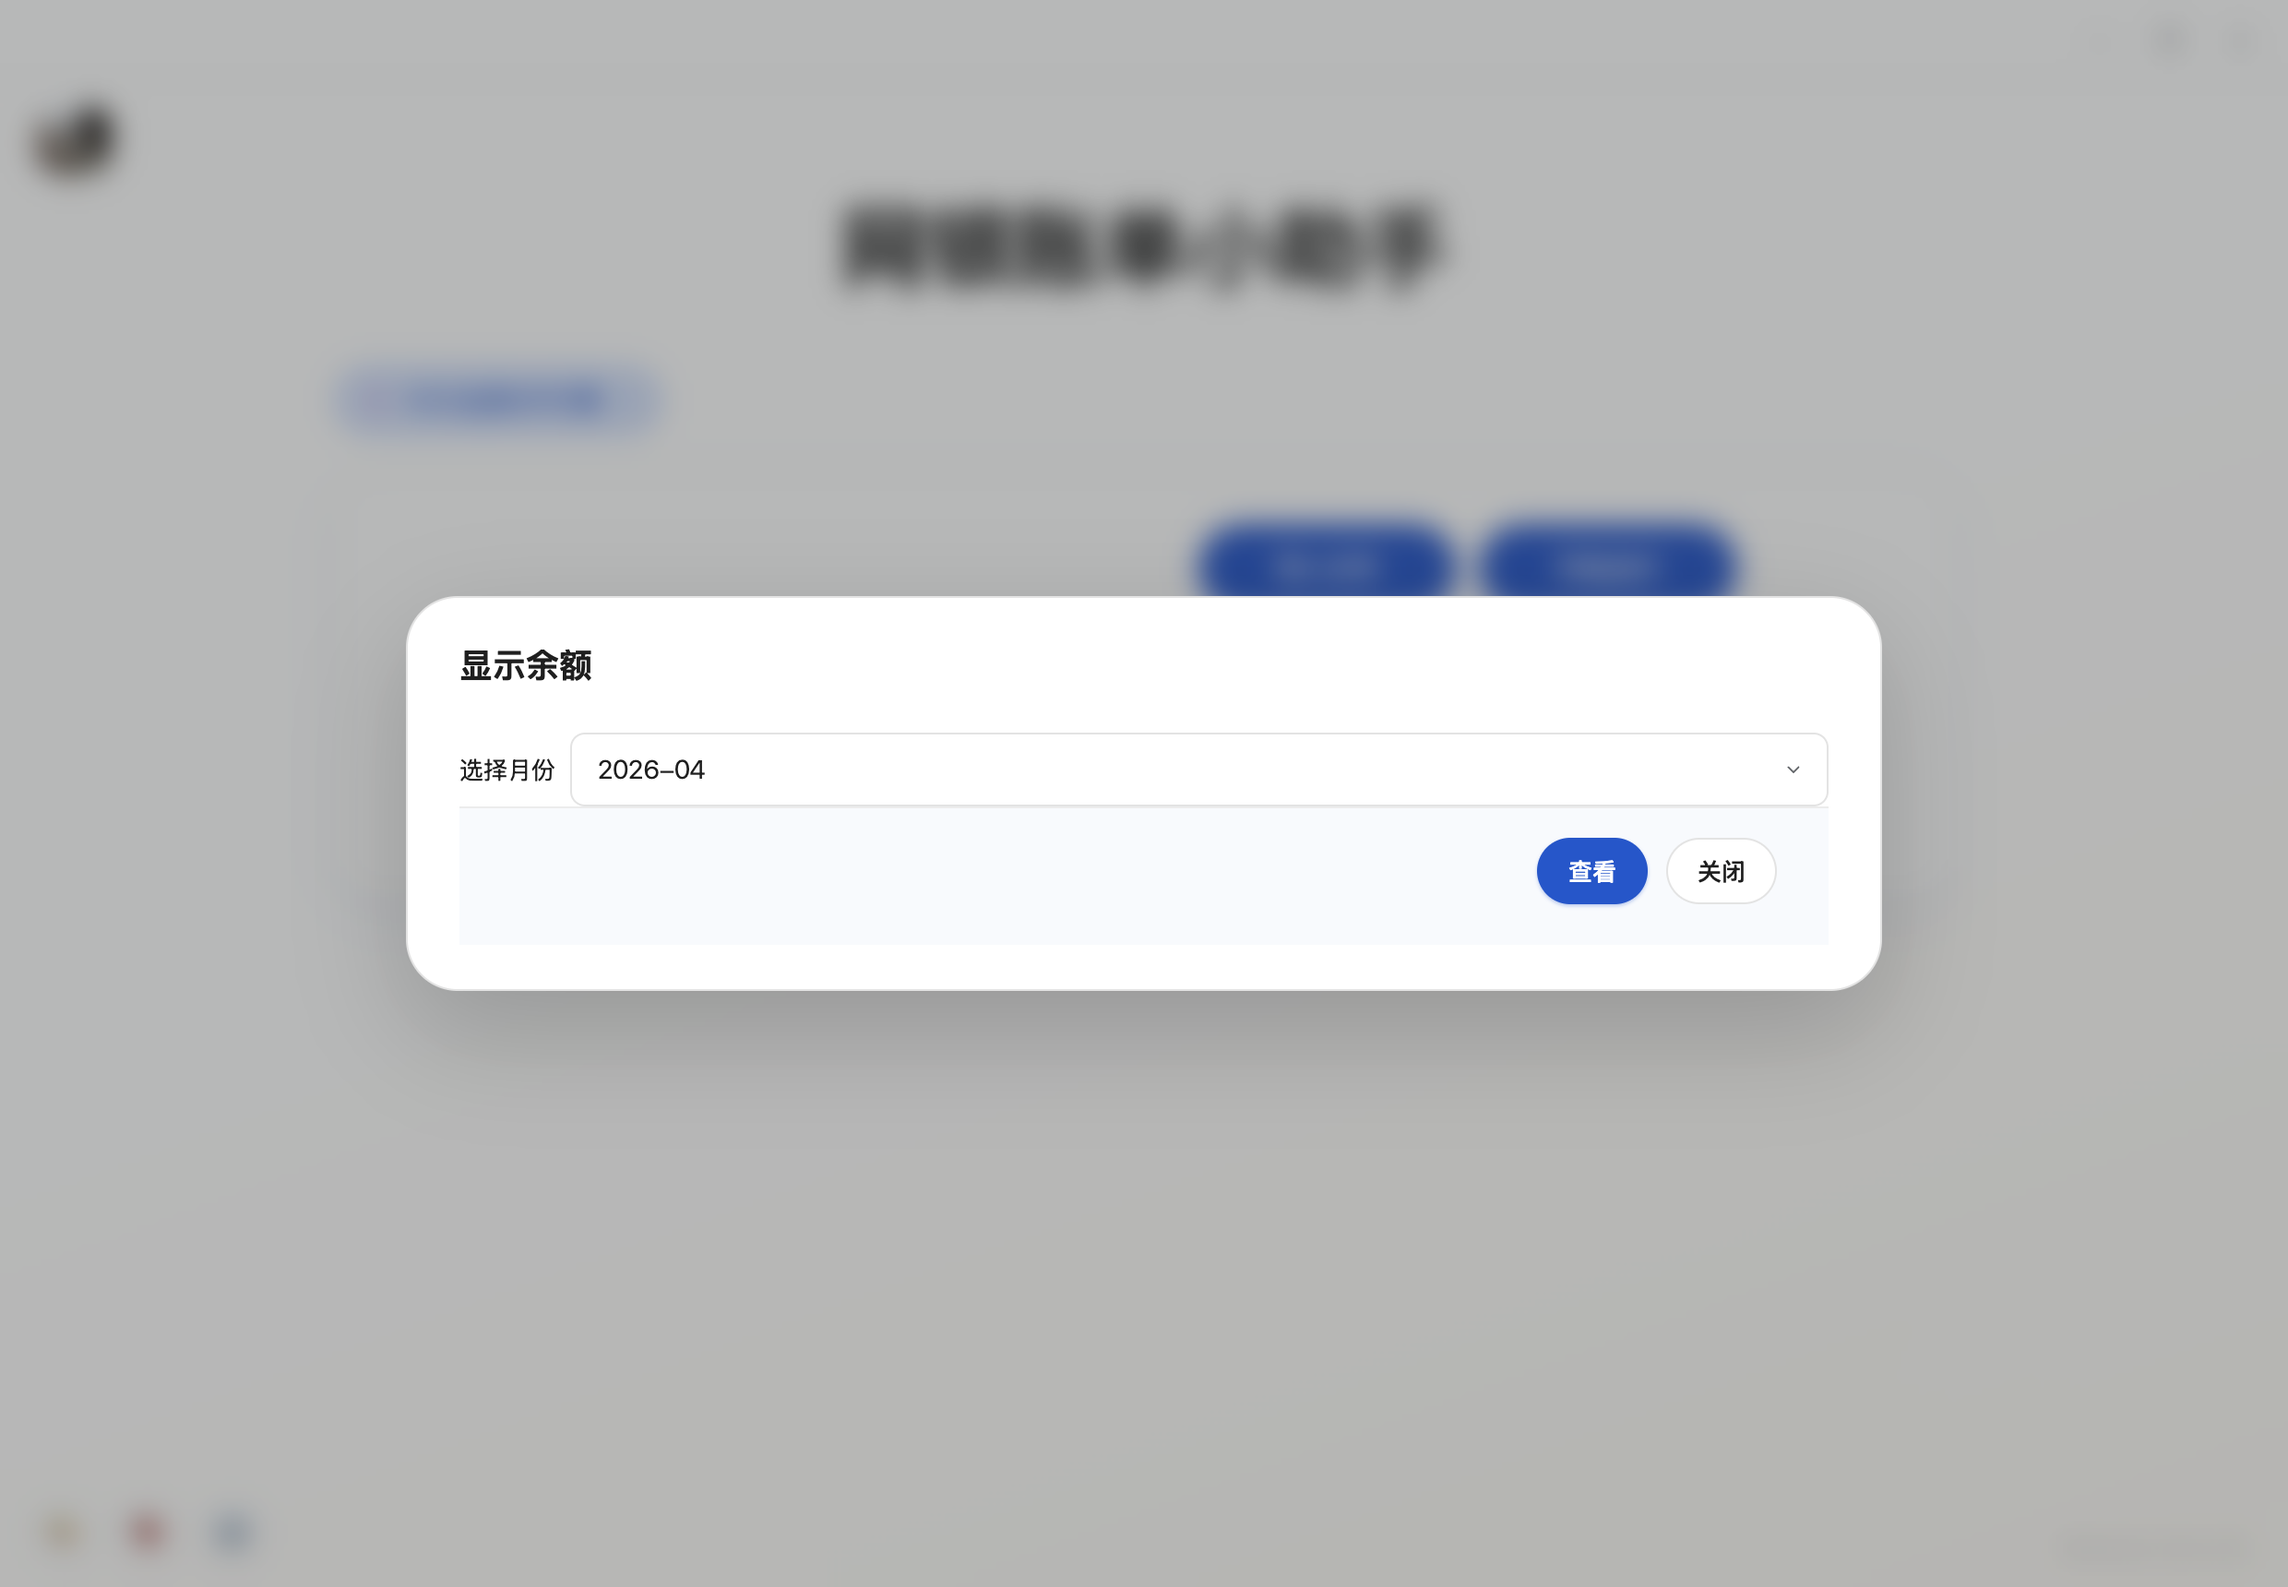
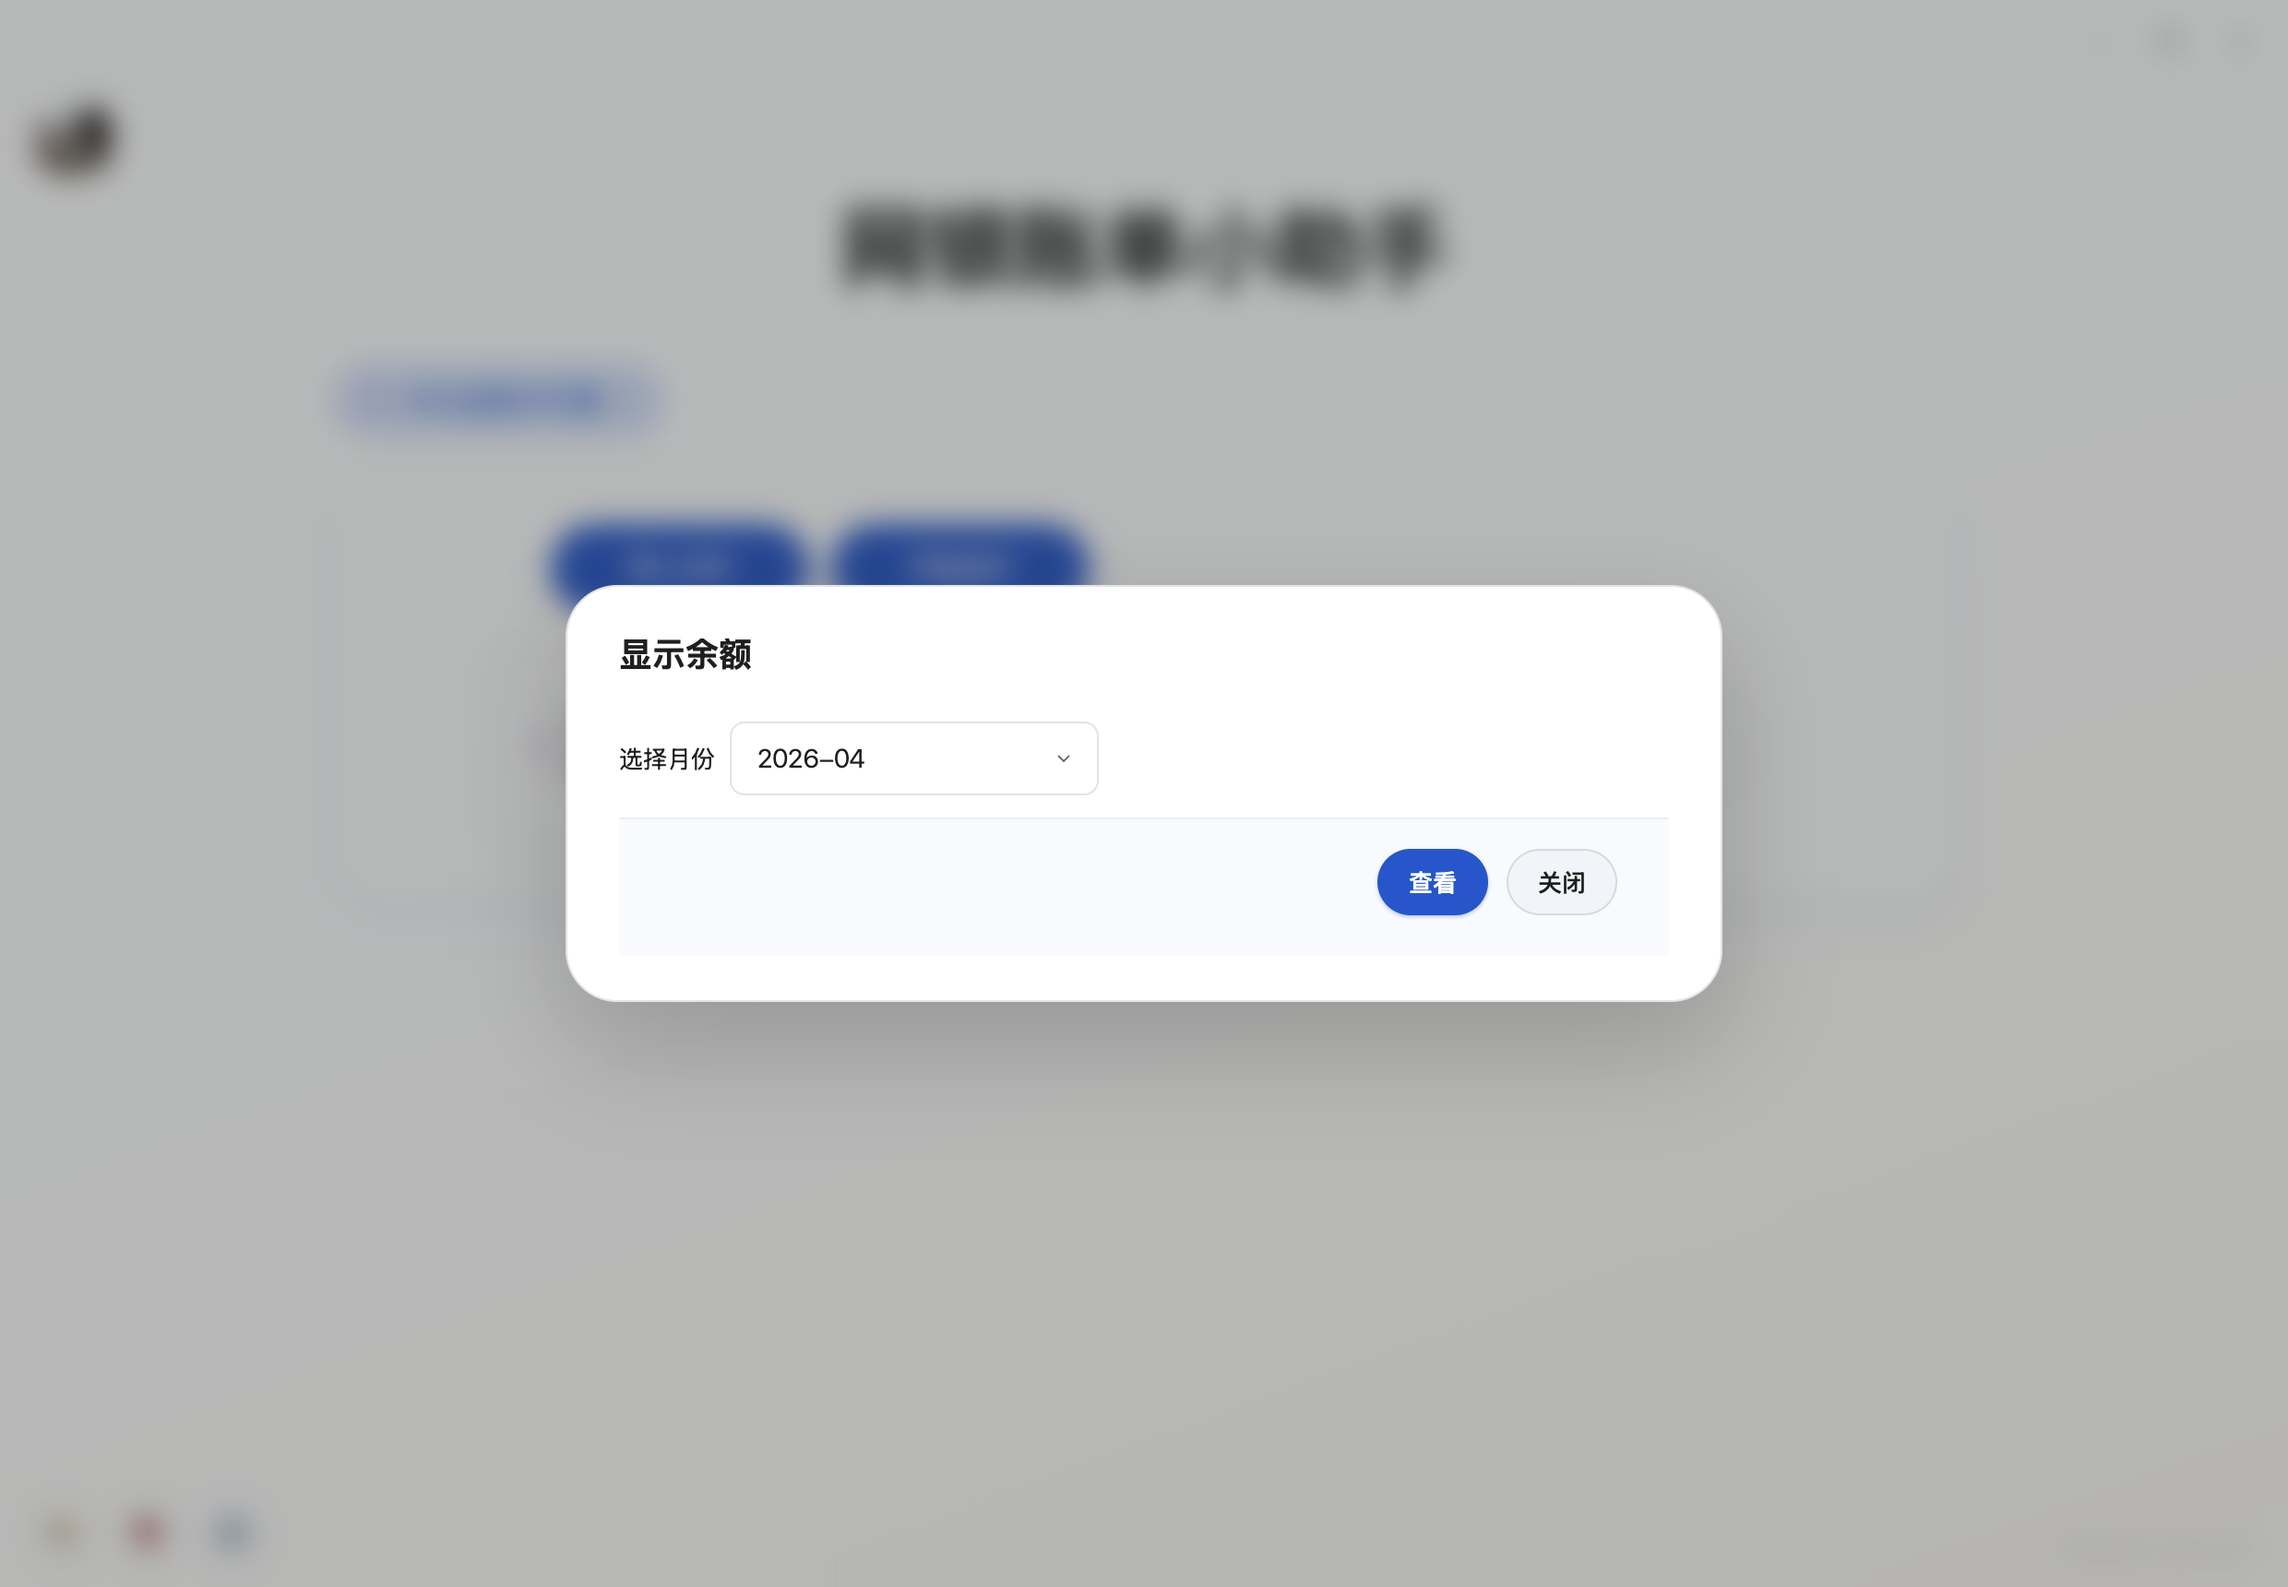
[v2.1.12] 需求1(UI微调)：VCC/bank-bu-recon主面板沿中线镜像(direction:rtl翻列位置/列宽+按钮对/状态框ltr回正) + 显示余额弹窗(宽度2/3+下拉框缩1/3+footer横线下移12px)

Changed region(s): [[0.1552, 0.3081, 0.8383, 0.6471]]

diff --git a/src/styles-gemini-extra.css b/src/styles-gemini-extra.css
@@ -944,6 +944,15 @@ tr.add-row .text-action:hover { background: #c2d7fa; }
 .pending-board .pending-action-pair .primary-btn,
 .bank-statement-board .pending-action-pair .primary-btn { min-width: 140px; }
 
+/* v2.1.12 需求：VCC业务OP计算 + 月度银行对账单BU回填校验 主面板沿垂直中线镜像（文字正常，用户最终确认）
+   ⚠ 当前生效主题 = Clear（本文件 styles-gemini-extra.css）；styles.css(General)默认 disabled，同名规则在那不生效。
+   实现：容器 direction:rtl 做"逻辑镜像" —— ①grid 列(cell.left↔right) ②列宽(1fr/1.4fr 随 rtl 自动换边)
+   ③按钮对、④状态框 各用 direction:ltr 回正 —— ③导入文件(左)→开始运行(右)、④图标在左+文字在右+数字/箭头正常可读
+   （用户要求按钮对位置对调、状态框图标移回左；非 scaleX 几何镜像，文字不反向、弹窗不错位）。*/
+.layout-mirrored .control-row { direction: rtl; }
+.layout-mirrored .pending-action-pair { direction: ltr; }
+.layout-mirrored .status-box { direction: ltr; }
+
 /* v2.1.6 fix14（spec v0.15 §8.1）：收单单据币种校验主面板 — 以 bank-statement-board 为模板左右镜像
    bank-statement 原版 grid = 1fr 1.4fr（左窄右宽，pair/状态框在右）
    镜像版（acquiring-bill-currency-board）= 1.4fr 1fr（左宽右窄，pair/状态框在左）

diff --git a/src/renderer-dialogs.js b/src/renderer-dialogs.js
@@ -10043,6 +10043,7 @@
 
       const dialog = document.createElement('div');
       dialog.className = 'modal-card pending-export-dialog';
+      dialog.style.width = 'min(100%, 627px)';   // 缩小至 modal-card 默认 940px 的 2/3
       overlay.appendChild(dialog);
 
       const title = document.createElement('div');
@@ -10059,6 +10060,7 @@
       selectLabel.style.cssText = 'font-size:13px; white-space:nowrap;';
       const select = document.createElement('select');
       select.className = 'mapping-text-input pending-reconcile-month-select';
+      select.style.cssText = 'flex: 0 0 170px;';   // 下拉框宽度缩至原(flex 占满≈510px)的约 1/3（用户要求）
       safeMonths.forEach((m, idx) => {
         const opt = document.createElement('option');
         opt.value = m;
@@ -10077,6 +10079,7 @@
 
       const actions = document.createElement('div');
       actions.className = 'dialog-actions right';   // 查看/关闭 右下角对齐（复用既有 .dialog-actions.right）
+      actions.style.marginTop = '12px';   // footer 横线(border-top)向下平移一点点（用户要求）
 
       const viewBtn = document.createElement('button');
       viewBtn.className = 'primary-btn small';

diff --git a/src/styles.css b/src/styles.css
@@ -2686,6 +2686,14 @@ select {
 .pending-board .pending-action-pair .primary-btn,
 .bank-statement-board .pending-action-pair .primary-btn { min-width: 140px; }
 
+/* v2.1.12 需求：VCC业务OP计算 + 月度银行对账单BU回填校验 主面板沿垂直中线镜像（文字正常，用户最终确认）
+   实现：容器 direction:rtl 仅翻 ①grid 列 ②列宽；③按钮对、④状态框 各用 direction:ltr 回正
+   = ③导入文件(左)→开始运行(右)、④图标在左+文字可读（用户要求按钮对对调、状态框图标移回左）。
+   列宽 1fr/1.4fr 随 rtl 自动换边。*/
+.layout-mirrored .control-row { direction: rtl; }
+.layout-mirrored .pending-action-pair { direction: ltr; }
+.layout-mirrored .status-box { direction: ltr; }
+
 /* v2.1.1：General 风格对账单ReconID修复 主面板（同步 Clear grid 3 列布局；label/select 视觉同网银账单生成模块的 .select-label / .template-select）
    Clear 风格相同设计见 styles-gemini-extra.css:898-986
    设计思路：60px label / 220px select / 140px button 三列严格对齐；行 1 [账单类别+下拉+场景管理] 与行 2 [场景+下拉+导出文件] 垂直对齐 */

diff --git a/index.html b/index.html
@@ -217,7 +217,7 @@
           </section>
 
           <!-- v2.1.2 T2：月度银行对账单BU回填校验模块面板（PRD §3.2.5：导入按钮 → 月份对话框 → 文件选择）-->
-          <section id="bankBuReconModulePanel" class="control-board module-panel pending-board" hidden>
+          <section id="bankBuReconModulePanel" class="control-board module-panel pending-board layout-mirrored" hidden>
             <div class="control-row">
               <div class="cell left"></div>
               <div class="cell right">
@@ -243,7 +243,7 @@
           </section>
 
           <!-- v2.1.12 需求1：VCC业务OP计算模块面板（仿 bank-bu-recon；「导出差异」位 →「显示余额」）-->
-          <section id="vccOpCalcModulePanel" class="control-board module-panel pending-board" hidden>
+          <section id="vccOpCalcModulePanel" class="control-board module-panel pending-board layout-mirrored" hidden>
             <div class="control-row">
               <div class="cell left"></div>
               <div class="cell right">
